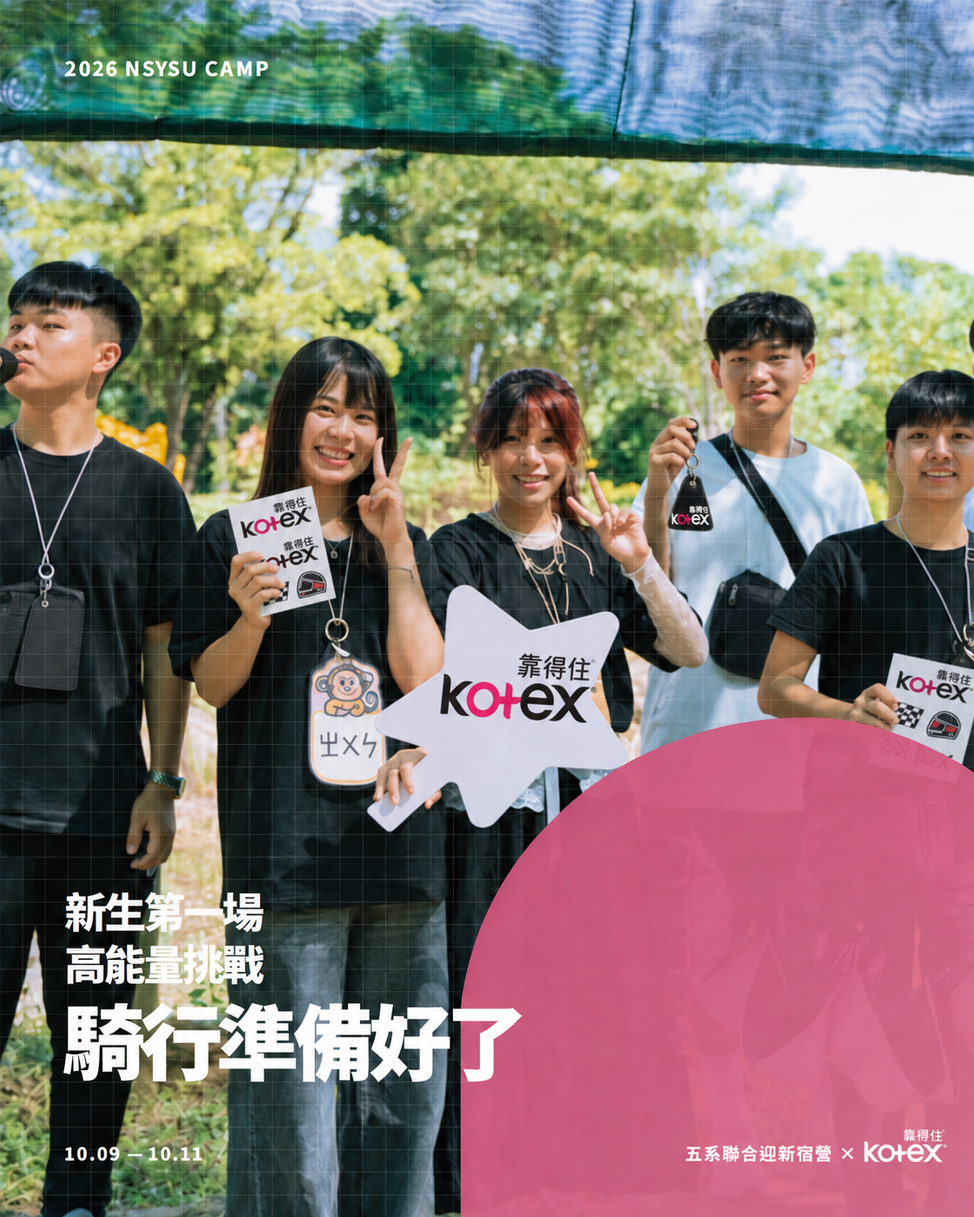
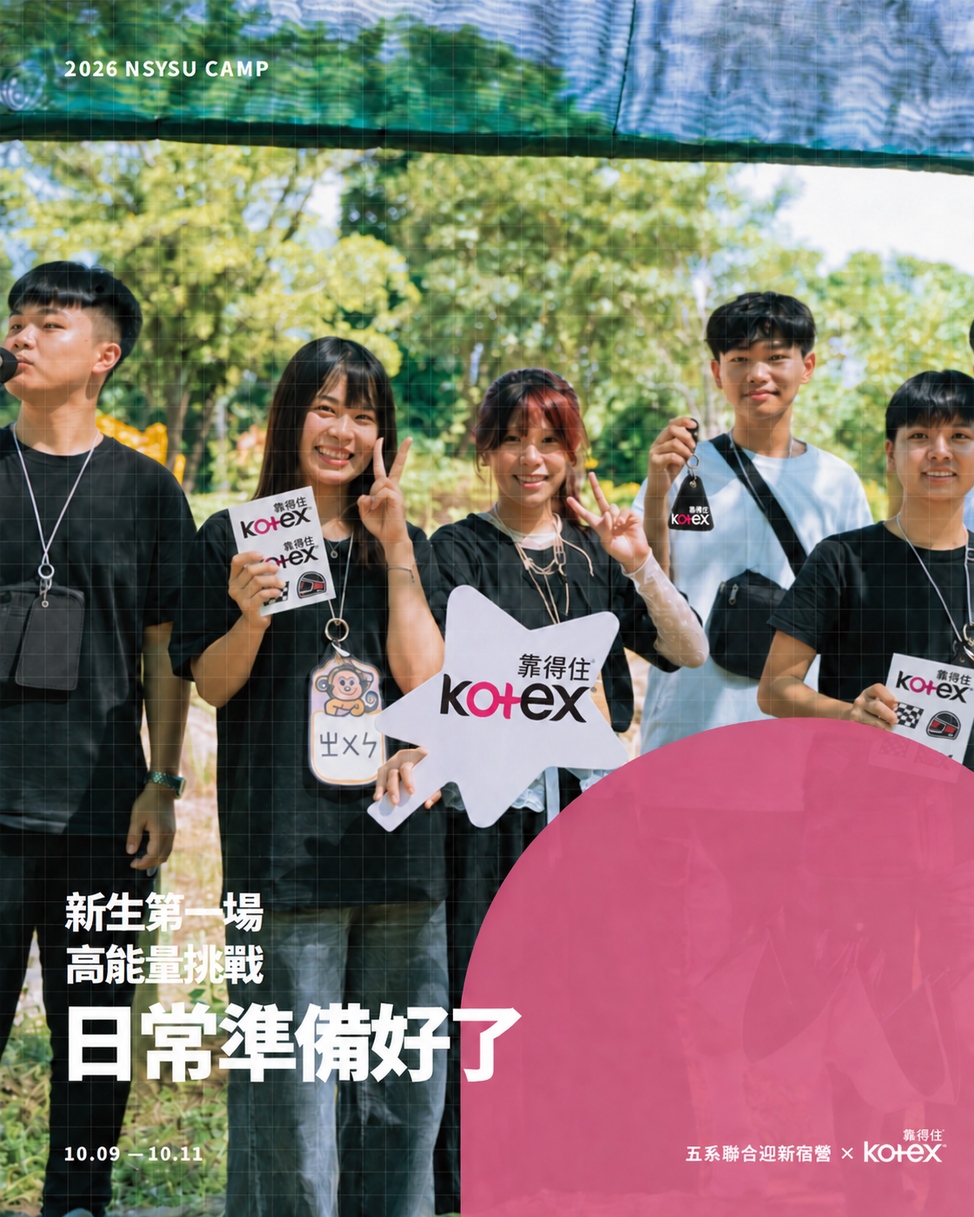
fix: refine Kotex and Whisper proposal content

diff --git a/whisper/index.html b/whisper/index.html
@@ -4,7 +4,7 @@
     <meta charset="UTF-8" />
     <meta name="viewport" content="width=device-width, initial-scale=1.0" />
     <title>好自在 合作提案｜2026 中山五系迎新宿營</title>
-    <meta name="description" content="2026 中山五系聯合迎新宿營提供給好自在 Whisper 的日常照護合作提案，以經典款液體衛生棉作為迎新福袋物資評估基礎。" />
+    <meta name="description" content="2026 中山五系聯合迎新宿營提供給好自在 Whisper 的日常照護合作提案，以經典款液體衛生棉作為直接發放物資評估基礎。" />
     <link rel="preconnect" href="https://fonts.googleapis.com" />
     <link rel="preconnect" href="https://fonts.gstatic.com" crossorigin />
     <link href="https://fonts.googleapis.com/css2?family=Noto+Sans+TC:wght@400;500;700;900&display=swap" rel="stylesheet" />
@@ -15,10 +15,10 @@
     <a class="skip-link" href="#overview">跳到提案內容</a>
     <header class="proposal-header"><nav class="proposal-nav shell" aria-label="提案頁面導覽"><a class="proposal-brand" href="#overview"><img src="../assets/images/logo-avatar.jpg" alt="五系聯合宿營標誌" /><span><b>好自在 合作提案</b><small>2026 中山五系聯合迎新宿營</small></span></a><button class="nav-toggle" type="button" aria-expanded="false" aria-controls="proposal-menu">頁面選擇</button><div class="proposal-links" id="proposal-menu"><a class="active" href="#overview">活動資訊</a><a href="#collaboration">合作邀請</a><a href="#proposal">合作方案</a><a href="#execution">行程安全</a></div></nav></header>
     <main>
-      <section class="proposal-page overview is-active" id="overview" aria-labelledby="overview-title" tabindex="-1"><div class="shell overview-grid"><div class="overview-copy"><p class="eyebrow">PRIVATE PROPOSAL</p><p class="camp-line">國立中山大學・五系聯合迎新宿營</p><h1 id="overview-title"><span>把自在防護</span><em>放進新生的旅程</em></h1><p class="opening">邀請好自在 Whisper 以經典款液體衛生棉支持女同學的迎新福袋，讓新生在跑跳闖關與日常行程中維持自在節奏</p><dl class="event-facts"><div><dt>時間</dt><dd>2026.10.09 — 10.11</dd></div><div><dt>地點</dt><dd>中山大學・走馬瀨・安平</dd></div><div><dt>規模</dt><dd>150 人</dd></div></dl><a class="next-link" href="#collaboration">看見合作方式 <span aria-hidden="true">↓</span></a></div><figure class="overview-photo"><img src="../assets/images/sponsor-hero.webp" alt="五系聯合宿營學員戶外合照" /><figcaption>活動情境示意｜合作素材與品牌露出將於執行前送交確認</figcaption></figure></div><div class="shell proof-strip"><div><strong>五系編制</strong><span>外文、醫科、光電、機電、生科</span></div><div><strong>三天兩夜</strong><span>破冰、戶外闖關、水大地、晚會與安平探索</span></div><div><strong>完整活動計畫</strong><span>隊輔陪伴、點名、安全說明與緊急應變</span></div></div></section>
-      <section class="proposal-page collaboration" id="collaboration" aria-labelledby="collaboration-title" tabindex="-1"><div class="shell hydration-grid"><figure class="hydration-photo"><img src="../assets/images/sponsor-work-together.webp" alt="宿營學員團隊合照" /><figcaption>合作情境示意｜贊助品與宣傳素材將依 好自在 Whisper 核可內容執行</figcaption></figure><div class="hydration-copy"><p class="eyebrow blue">WHY 好自在 Whisper</p><h2 id="collaboration-title"><span>讓自在防護成為</span><span>新生投入活動的準備</span></h2><p>營隊包含大量跑跳與戶外闖關；我們希望將好自在經典款液體衛生棉放入女同學迎新福袋，讓參與者能依自身需求準備個人用品。實際商品規格、提供方式與品牌素材均以好自在最終確認為準。</p><a class="source-link" href="https://www.livingartist.com.tw/" target="_blank" rel="noopener noreferrer">前往好自在官方網站 ↗</a><article class="ask-card"><div class="ask-card-title"><span>核心合作邀請</span><strong>經典款液體衛生棉</strong><span class="ask-product-detail">24cm 或 27cm｜30 盒迎新福袋物資</span></div><p>希望邀請好自在 Whisper 提供 <b>經典款液體衛生棉 24cm 或 27cm 30 盒</b>，作為女同學迎新福袋物資的評估基礎。實際包裝規格、提供方式與發放對象，皆以品牌最終確認為準。</p><div class="blank-product"><span>合作安排</span><b>以迎新福袋直接發放給女同學，讓每位領取者皆可體驗</b></div><p>若好自在 Whisper 提供官方 logo、商品說明或包裝素材，我們可依核可內容安排福袋、網站與社群露出；所有呈現方式皆會在執行前送交確認。</p><small>產品規格、適用性、提供方式、品牌素材與露出範圍，均以 好自在 Whisper 最終確認為準。</small></article><a class="next-link" href="#proposal">看合作方案 <span aria-hidden="true">↓</span></a></div></div></section>
-      <section class="proposal-page partnership" id="proposal" aria-labelledby="proposal-title" tabindex="-1"><div class="shell partnership-heading"><p class="eyebrow">PARTNERSHIP PROPOSAL</p><h2 id="proposal-title">讓好自在的日常防護陪新生自在參與</h2></div><div class="shell decision-layout"><article class="primary-request"><p>優先合作方案</p><div class="request-number"><strong>經典款液體衛生棉<br /><span>30 盒</span></strong></div><ul><li>以迎新福袋直接發放給女同學</li><li>適用規格由品牌最終確認</li><li>實際提供方式與商品規格依品牌確認</li><li>活動網站與 Instagram 內容皆於上線前送交核可</li></ul></article></div><div class="shell deliverable-table-wrap"><table class="deliverable-table"><caption>合作內容</caption><thead><tr><th scope="col">合作項目</th><th scope="col">主辦方交付</th><th scope="col">可共同討論</th><th scope="col">回報憑據</th></tr></thead><tbody><tr><th scope="row">迎新福袋發放</th><td>以經典款液體衛生棉 24cm 或 27cm 30 盒作為女同學迎新福袋物資的提案基礎；實際包裝與發放方式於執行前確認。</td><td>產品提供方式、適用性與場地規範。</td><td>執行紀錄與現場照片。</td></tr><tr><th scope="row">品牌識別素材</th><td>若品牌提供貼紙、鑰匙圈或其他宣傳素材，可規劃為互動贈品或核可後的宣傳內容。</td><td>是否提供、素材種類、數量與使用規範。</td><td>現場與素材使用紀錄。</td></tr><tr><th scope="row"><a href="activity-mockup.html" target="_blank" rel="noopener noreferrer">活動官網 ↗</a></th><td>合作頁放置 好自在 Whisper Logo、官方連結與核可後的簡短介紹。</td><td>Logo 檔、連結與上線前審核。</td><td>線上截圖。</td></tr><tr><th scope="row">Instagram 合作內容</th><td>活動前、現場、活動後各 1 則內容；文案與視覺均先送 好自在 Whisper 確認。</td><td>素材、標記帳號與文案規範。</td><td>貼文連結與限時動態截圖。</td></tr><tr><th scope="row">成果結案</th><td>活動後 14 日內整理合作執行摘要與公開紀錄。</td><td>指定收件窗口與成果欄位。</td><td>結案 PDF、照片與公開連結。</td></tr></tbody></table></div><div class="shell content-preview" aria-labelledby="content-preview-title"><div class="content-preview-copy"><p class="eyebrow">CONTENT EXAMPLE</p><h3 id="content-preview-title"><span>Instagram</span><span>貼文模擬</span></h3><p>以下以三則貼文呈現迎新福袋準備、活動中照護提醒與活動後回顧。視覺、文案與發布時程皆會於上線前送交 好自在 Whisper 確認。</p><div class="resource-links"><a class="resource-link" href="activity-mockup.html" target="_blank" rel="noopener noreferrer">前往活動官網 ↗</a><a class="resource-link" href="https://www.instagram.com/2026_nsysu_camp/" target="_blank" rel="noopener noreferrer">前往 Instagram ↗</a></div></div><article class="instagram-mockup" aria-label="好自在 Whisper Instagram 貼文模擬器"><header><img src="../assets/images/logo-avatar.jpg" alt="" /><div><b>2026_nsysu_camp</b><small>中山五系聯合迎新宿營</small></div><button type="button" aria-label="更多選項">•••</button></header><div class="instagram-media"><img id="instagram-image" src="assets/instagram/01-before-whisper.png" alt="好自在 Whisper 合作貼文範例一" /><button class="ig-arrow previous" type="button" aria-label="上一張貼文" onclick="window.whisperShowPost?.(-1); return false;">‹</button><button class="ig-arrow next" type="button" aria-label="下一張貼文" onclick="window.whisperShowPost?.(1); return false;">›</button></div><div class="instagram-actions"><span aria-hidden="true">♡　◯　➤</span><div class="ig-dots" aria-label="貼文頁數"><button class="is-current" type="button" aria-label="顯示第 1 張範例" onclick="window.whisperShowPost?.(0, true); return false;"></button><button type="button" aria-label="顯示第 2 張範例" onclick="window.whisperShowPost?.(1, true); return false;"></button><button type="button" aria-label="顯示第 3 張範例" onclick="window.whisperShowPost?.(2, true); return false;"></button></div><span aria-hidden="true">⌑</span></div><div class="instagram-caption"><b>2026_nsysu_camp</b><p id="instagram-caption">集合前，我們先把迎新福袋與日常照護用品準備好。所有合作素材均於上線前送好自在確認。</p><small id="instagram-date">貼文方向一｜活動前</small></div></article></div><div class="shell page-next"><a class="next-link" href="#execution">看活動執行與安全規劃 <span aria-hidden="true">↓</span></a></div></section>
-      <section class="proposal-page execution" id="execution" aria-labelledby="execution-title" tabindex="-1"><div class="shell execution-heading"><p class="eyebrow">EXECUTION &amp; SAFETY</p><h2 id="execution-title">把合作融入活動也守住安全</h2></div><div class="shell schedule-grid"><article><span>DAY 1 / 10.09</span><h3>先認識彼此</h3><p>破冰、夜教、宵夜</p><small>校園內集合與活動，隊輔帶領、點名與安全說明。</small></article><article><span>DAY 2 / 10.10</span><h3>高活動量的一天</h3><p>走馬瀨大地遊戲、水大地、晚會</p><small>抽獎與合作夥伴致謝可安排於晚會等合適環節。</small></article><article><span>DAY 3 / 10.11</span><h3>完成共同旅程</h3><p>結業、團隊活動、安平探索</p><small>戶外活動與移動前皆完成安全說明，結束後返抵中山大學。</small></article></div><div class="shell safety-grid"><article><h3>現場安全</h3><p>飲用水、急救箱、點名與醫療聯絡表全程配置。各活動前完成安全說明與器材檢查。</p></article><article><h3>天候與應變</h3><p>雨勢、高溫或重大事件依校方、場地方與政府指示調整。</p></article><article><h3>合作執行原則</h3><p>抽獎與宣傳不影響活動安全與參與者隱私。所有對外品牌文字皆經確認後發布。</p></article></div><div class="shell closing-card"><div><p class="eyebrow">NEXT STEP</p><h2><span>期待與 好自在 Whisper 一起</span><span>讓相遇留下好的記憶</span></h2></div><p>若 好自在 Whisper 願意評估本案，我們將依品牌回覆確認贊助商品、素材與交付項目，並提供最終執行版本。</p></div></section>
+      <section class="proposal-page overview is-active" id="overview" aria-labelledby="overview-title" tabindex="-1"><div class="shell overview-grid"><div class="overview-copy"><p class="eyebrow">PRIVATE PROPOSAL</p><p class="camp-line">國立中山大學・五系聯合迎新宿營</p><h1 id="overview-title"><span>把自在防護</span><em>放進新生的旅程</em></h1><p class="opening">邀請好自在 Whisper 以經典款液體衛生棉供女同學直接使用，讓新生在跑跳闖關與日常行程中維持自在節奏</p><dl class="event-facts"><div><dt>時間</dt><dd>2026.10.09 — 10.11</dd></div><div><dt>地點</dt><dd>中山大學・走馬瀨・安平</dd></div><div><dt>規模</dt><dd>150 人</dd></div></dl><a class="next-link" href="#collaboration">看見合作方式 <span aria-hidden="true">↓</span></a></div><figure class="overview-photo"><img src="../assets/images/sponsor-hero.webp" alt="五系聯合宿營學員戶外合照" /><figcaption>活動情境示意｜合作素材與品牌露出將於執行前送交確認</figcaption></figure></div><div class="shell proof-strip"><div><strong>五系編制</strong><span>外文、醫科、光電、機電、生科</span></div><div><strong>三天兩夜</strong><span>破冰、戶外闖關、水大地、晚會與安平探索</span></div><div><strong>完整活動計畫</strong><span>隊輔陪伴、點名、安全說明與緊急應變</span></div></div></section>
+      <section class="proposal-page collaboration" id="collaboration" aria-labelledby="collaboration-title" tabindex="-1"><div class="shell hydration-grid"><figure class="hydration-photo"><img src="../assets/images/sponsor-work-together.webp" alt="宿營學員團隊合照" /><figcaption>合作情境示意｜贊助品與宣傳素材將依 好自在 Whisper 核可內容執行</figcaption></figure><div class="hydration-copy"><p class="eyebrow blue">WHY 好自在 Whisper</p><h2 id="collaboration-title"><span>讓自在防護成為</span><span>新生投入活動</span></h2><p>營隊包含大量跑跳與戶外闖關；我們希望將好自在經典款液體衛生棉直接發放給女同學，讓參與者能依自身需求準備個人用品。實際商品規格、提供方式與品牌素材均以好自在最終確認為準。</p><a class="source-link" href="https://www.livingartist.com.tw/" target="_blank" rel="noopener noreferrer">前往好自在官方網站 ↗</a><article class="ask-card"><div class="ask-card-title"><span>核心合作邀請</span><strong>經典款液體衛生棉</strong><span class="ask-product-detail">24cm 或 27cm｜30 盒直接發放物資</span></div><p>希望邀請好自在 Whisper 提供 <b>經典款液體衛生棉 24cm 或 27cm 30 盒</b>，作為女同學直接發放物資的評估基礎。實際包裝規格、提供方式與發放對象，皆以品牌最終確認為準。</p><div class="blank-product"><span>合作安排</span><b>直接發放給女同學，讓每位領取者皆可體驗</b></div><p>若好自在 Whisper 提供官方 logo、商品說明或包裝素材，我們可依核可內容安排直接發放說明、網站與社群露出；所有呈現方式皆會在執行前送交確認。</p><small>產品規格、適用性、提供方式、品牌素材與露出範圍，均以 好自在 Whisper 最終確認為準。</small></article><a class="next-link" href="#proposal">看合作方案 <span aria-hidden="true">↓</span></a></div></div></section>
+      <section class="proposal-page partnership" id="proposal" aria-labelledby="proposal-title" tabindex="-1"><div class="shell partnership-heading"><p class="eyebrow">PARTNERSHIP PROPOSAL</p><h2 id="proposal-title">讓好自在的日常防護陪新生自在參與</h2></div><div class="shell decision-layout"><article class="primary-request"><p>優先合作方案</p><div class="request-number"><strong>經典款液體衛生棉<br /><span>30 盒</span></strong></div><ul><li>直接發放給女同學</li><li>適用規格由品牌最終確認</li><li>實際提供方式與商品規格依品牌確認</li><li>活動網站與 Instagram 內容皆於上線前送交核可</li></ul></article></div><div class="shell deliverable-table-wrap"><table class="deliverable-table"><caption>合作內容</caption><thead><tr><th scope="col">合作項目</th><th scope="col">主辦方交付</th><th scope="col">可共同討論</th><th scope="col">回報憑據</th></tr></thead><tbody><tr><th scope="row">直接發放</th><td>以經典款液體衛生棉 24cm 或 27cm 30 盒作為女同學直接發放物資的提案基礎；實際包裝與發放方式於執行前確認。</td><td>產品提供方式、適用性與場地規範。</td><td>執行紀錄與現場照片。</td></tr><tr><th scope="row">品牌識別素材</th><td>若品牌提供貼紙、鑰匙圈或其他宣傳素材，可規劃為互動贈品或核可後的宣傳內容。</td><td>是否提供、素材種類、數量與使用規範。</td><td>現場與素材使用紀錄。</td></tr><tr><th scope="row"><a href="activity-mockup.html" target="_blank" rel="noopener noreferrer">活動官網 ↗</a></th><td>合作頁放置 好自在 Whisper Logo、官方連結與核可後的簡短介紹。</td><td>Logo 檔、連結與上線前審核。</td><td>線上截圖。</td></tr><tr><th scope="row">Instagram 合作內容</th><td>活動前、現場、活動後各 1 則內容；文案與視覺均先送 好自在 Whisper 確認。</td><td>素材、標記帳號與文案規範。</td><td>貼文連結與限時動態截圖。</td></tr><tr><th scope="row">成果結案</th><td>活動後 14 日內整理合作執行摘要與公開紀錄。</td><td>指定收件窗口與成果欄位。</td><td>結案 PDF、照片與公開連結。</td></tr></tbody></table></div><div class="shell content-preview" aria-labelledby="content-preview-title"><div class="content-preview-copy"><p class="eyebrow">CONTENT EXAMPLE</p><h3 id="content-preview-title"><span>Instagram</span><span>貼文模擬</span></h3><p>以下以三則貼文呈現直接發放準備、活動中照護提醒與活動後回顧。視覺、文案與發布時程皆會於上線前送交 好自在 Whisper 確認。</p><div class="resource-links"><a class="resource-link" href="activity-mockup.html" target="_blank" rel="noopener noreferrer">前往活動官網 ↗</a><a class="resource-link" href="https://www.instagram.com/2026_nsysu_camp/" target="_blank" rel="noopener noreferrer">前往 Instagram ↗</a></div></div><article class="instagram-mockup" aria-label="好自在 Whisper Instagram 貼文模擬器"><header><img src="../assets/images/logo-avatar.jpg" alt="" /><div><b>2026_nsysu_camp</b><small>中山五系聯合迎新宿營</small></div><button type="button" aria-label="更多選項">•••</button></header><div class="instagram-media"><img id="instagram-image" src="assets/instagram/01-before-whisper.png" alt="好自在 Whisper 合作貼文範例一" /><button class="ig-arrow previous" type="button" aria-label="上一張貼文" onclick="window.whisperShowPost?.(-1); return false;">‹</button><button class="ig-arrow next" type="button" aria-label="下一張貼文" onclick="window.whisperShowPost?.(1); return false;">›</button></div><div class="instagram-actions"><span aria-hidden="true">♡　◯　➤</span><div class="ig-dots" aria-label="貼文頁數"><button class="is-current" type="button" aria-label="顯示第 1 張範例" onclick="window.whisperShowPost?.(0, true); return false;"></button><button type="button" aria-label="顯示第 2 張範例" onclick="window.whisperShowPost?.(1, true); return false;"></button><button type="button" aria-label="顯示第 3 張範例" onclick="window.whisperShowPost?.(2, true); return false;"></button></div><span aria-hidden="true">⌑</span></div><div class="instagram-caption"><b>2026_nsysu_camp</b><p id="instagram-caption">集合前，我們先把日常照護用品準備好。所有合作素材均於上線前送好自在確認。</p><small id="instagram-date">貼文方向一｜活動前</small></div></article></div><div class="shell page-next"><a class="next-link" href="#execution">看活動執行與安全規劃 <span aria-hidden="true">↓</span></a></div></section>
+      <section class="proposal-page execution" id="execution" aria-labelledby="execution-title" tabindex="-1"><div class="shell execution-heading"><p class="eyebrow">EXECUTION &amp; SAFETY</p><h2 id="execution-title">把合作融入活動也守住安全</h2></div><div class="shell schedule-grid"><article><span>DAY 1 / 10.09</span><h3>先認識彼此</h3><p>破冰、夜教、宵夜</p><small>校園內集合與活動，隊輔帶領、點名與安全說明。</small></article><article><span>DAY 2 / 10.10</span><h3>高活動量的一天</h3><p>走馬瀨大地遊戲、水大地、晚會</p><small>抽獎與合作夥伴致謝可安排於晚會等合適環節。</small></article><article><span>DAY 3 / 10.11</span><h3>完成共同旅程</h3><p>結業、團隊活動、安平探索</p><small>戶外活動與移動前皆完成安全說明，結束後返抵中山大學。</small></article></div><div class="shell safety-grid"><article><h3>現場安全</h3><p>飲用水、急救箱、點名與醫療聯絡表全程配置。各活動前完成安全說明與器材檢查。</p></article><article><h3>天候與應變</h3><p>雨勢、高溫或重大事件依校方、場地方與政府指示調整。</p></article><article><h3>合作執行原則</h3><p>抽獎與宣傳不影響活動安全與參與者隱私。所有對外品牌文字皆經確認後發布。</p></article></div><div class="shell closing-card"><div><p class="eyebrow">NEXT STEP</p><h2><span>期待與好自在</span><span>一起讓相遇留下好記憶</span></h2></div><p>若 好自在 Whisper 願意評估本案，我們將依品牌回覆確認贊助商品、素材與交付項目，並提供最終執行版本。</p></div></section>
     </main><footer class="proposal-footer"><div class="shell"><span>2026 中山五系聯合迎新宿營</span><span>好自在 合作提案｜合作內容依雙方最終確認為準</span></div></footer><script src="script.js?v=20260909-1"></script>
   </body>
 </html>

diff --git a/kotex/index.html b/kotex/index.html
@@ -4,7 +4,7 @@
     <meta charset="UTF-8" />
     <meta name="viewport" content="width=device-width, initial-scale=1.0" />
     <title>靠得住 合作提案｜2026 中山五系迎新宿營</title>
-    <meta name="description" content="2026 中山五系聯合迎新宿營提供給靠得住 Kotex 的日常照護合作提案，以草本抑菌衛生棉作為迎新福袋物資評估基礎。" />
+    <meta name="description" content="2026 中山五系聯合迎新宿營提供給靠得住 Kotex 的日常照護合作提案，以草本抑菌衛生棉作為直接發放物資評估基礎。" />
     <link rel="preconnect" href="https://fonts.googleapis.com" />
     <link rel="preconnect" href="https://fonts.gstatic.com" crossorigin />
     <link href="https://fonts.googleapis.com/css2?family=Noto+Sans+TC:wght@400;500;700;900&display=swap" rel="stylesheet" />
@@ -15,10 +15,10 @@
     <a class="skip-link" href="#overview">跳到提案內容</a>
     <header class="proposal-header"><nav class="proposal-nav shell" aria-label="提案頁面導覽"><a class="proposal-brand" href="#overview"><img src="../assets/images/logo-avatar.jpg" alt="五系聯合宿營標誌" /><span><b>靠得住 合作提案</b><small>2026 中山五系聯合迎新宿營</small></span></a><button class="nav-toggle" type="button" aria-expanded="false" aria-controls="proposal-menu">頁面選擇</button><div class="proposal-links" id="proposal-menu"><a class="active" href="#overview">活動資訊</a><a href="#collaboration">合作邀請</a><a href="#proposal">合作方案</a><a href="#execution">行程安全</a></div></nav></header>
     <main>
-      <section class="proposal-page overview is-active" id="overview" aria-labelledby="overview-title" tabindex="-1"><div class="shell overview-grid"><div class="overview-copy"><p class="eyebrow">PRIVATE PROPOSAL</p><p class="camp-line">國立中山大學・五系聯合迎新宿營</p><h1 id="overview-title"><span>把日常照顧</span><em>放進新生的行囊</em></h1><p class="opening">邀請靠得住 Kotex 以草本抑菌衛生棉 26cm 支持女同學的迎新福袋，讓新生在三天兩夜活動中也能把日常照護準備好</p><dl class="event-facts"><div><dt>時間</dt><dd>2026.10.09 — 10.11</dd></div><div><dt>地點</dt><dd>中山大學・走馬瀨・安平</dd></div><div><dt>規模</dt><dd>150 人</dd></div></dl><a class="next-link" href="#collaboration">看見合作方式 <span aria-hidden="true">↓</span></a></div><figure class="overview-photo"><img src="../assets/images/sponsor-hero.webp" alt="五系聯合宿營學員戶外合照" /><figcaption>活動情境示意｜合作素材與品牌露出將於執行前送交確認</figcaption></figure></div><div class="shell proof-strip"><div><strong>五系編制</strong><span>外文、醫科、光電、機電、生科</span></div><div><strong>三天兩夜</strong><span>破冰、戶外闖關、水大地、晚會與安平探索</span></div><div><strong>完整活動計畫</strong><span>隊輔陪伴、點名、安全說明與緊急應變</span></div></div></section>
-      <section class="proposal-page collaboration" id="collaboration" aria-labelledby="collaboration-title" tabindex="-1"><div class="shell hydration-grid"><figure class="hydration-photo"><img src="../assets/images/sponsor-work-together.webp" alt="宿營學員團隊合照" /><figcaption>合作情境示意｜贊助品與宣傳素材將依 靠得住 Kotex 核可內容執行</figcaption></figure><div class="hydration-copy"><p class="eyebrow blue">WHY 靠得住 Kotex</p><h2 id="collaboration-title"><span>讓日常照護成為</span><span>新生安心出發的準備</span></h2><p>高雄十月仍有炎熱天候與大量戶外活動。我們希望將靠得住草本抑菌衛生棉放入女同學迎新福袋，讓個人用品能在出發前就準備妥當；實際商品、發放方式與品牌素材均以靠得住最終確認為準。</p><a class="source-link" href="https://www.kotex.com.tw/" target="_blank" rel="noopener noreferrer">前往靠得住官方網站 ↗</a><article class="ask-card"><div class="ask-card-title"><span>核心合作邀請</span><strong>草本抑菌衛生棉</strong><span class="ask-product-detail">26cm｜40 包迎新福袋物資</span></div><p>希望邀請靠得住 Kotex 提供 <b>草本抑菌衛生棉 26cm 40 包</b>，作為女同學迎新福袋物資的評估基礎。實際包裝規格、提供方式與發放對象，皆以品牌最終確認為準。</p><div class="blank-product"><span>合作安排</span><b>以迎新福袋直接發放給女同學，讓每位領取者皆可體驗</b></div><p>若靠得住 Kotex 提供官方 logo、商品說明或包裝素材，我們可依核可內容安排福袋、網站與社群露出；所有呈現方式皆會在執行前送交確認。</p><small>產品規格、適用性、提供方式、品牌素材與露出範圍，均以 靠得住 Kotex 最終確認為準。</small></article><a class="next-link" href="#proposal">看合作方案 <span aria-hidden="true">↓</span></a></div></div></section>
-      <section class="proposal-page partnership" id="proposal" aria-labelledby="proposal-title" tabindex="-1"><div class="shell partnership-heading"><p class="eyebrow">PARTNERSHIP PROPOSAL</p><h2 id="proposal-title">讓靠得住的日常照護陪新生安心出發</h2></div><div class="shell decision-layout"><article class="primary-request"><p>優先合作方案</p><div class="request-number"><strong>草本抑菌衛生棉<br /><span>26cm 40 包</span></strong></div><ul><li>以迎新福袋直接發放給女同學</li><li>不以競賽或抽獎方式安排</li><li>實際提供方式與商品規格依品牌確認</li><li>活動網站與 Instagram 內容皆於上線前送交核可</li></ul></article></div><div class="shell deliverable-table-wrap"><table class="deliverable-table"><caption>合作內容</caption><thead><tr><th scope="col">合作項目</th><th scope="col">主辦方交付</th><th scope="col">可共同討論</th><th scope="col">回報憑據</th></tr></thead><tbody><tr><th scope="row">迎新福袋發放</th><td>以草本抑菌衛生棉 26cm 40 包作為女同學迎新福袋物資的提案基礎；實際包裝與發放方式於執行前確認。</td><td>產品提供方式、適用性與場地規範。</td><td>執行紀錄與現場照片。</td></tr><tr><th scope="row">品牌識別素材</th><td>若品牌提供貼紙、鑰匙圈或其他宣傳素材，可規劃為互動贈品或核可後的宣傳內容。</td><td>是否提供、素材種類、數量與使用規範。</td><td>現場與素材使用紀錄。</td></tr><tr><th scope="row"><a href="activity-mockup.html" target="_blank" rel="noopener noreferrer">活動官網 ↗</a></th><td>合作頁放置 靠得住 Kotex Logo、官方連結與核可後的簡短介紹。</td><td>Logo 檔、連結與上線前審核。</td><td>線上截圖。</td></tr><tr><th scope="row">Instagram 合作內容</th><td>活動前、現場、活動後各 1 則內容；文案與視覺均先送 靠得住 Kotex 確認。</td><td>素材、標記帳號與文案規範。</td><td>貼文連結與限時動態截圖。</td></tr><tr><th scope="row">成果結案</th><td>活動後 14 日內整理合作執行摘要與公開紀錄。</td><td>指定收件窗口與成果欄位。</td><td>結案 PDF、照片與公開連結。</td></tr></tbody></table></div><div class="shell content-preview" aria-labelledby="content-preview-title"><div class="content-preview-copy"><p class="eyebrow">CONTENT EXAMPLE</p><h3 id="content-preview-title"><span>Instagram</span><span>貼文模擬</span></h3><p>以下以三則貼文呈現迎新福袋準備、活動中照護提醒與活動後回顧。視覺、文案與發布時程皆會於上線前送交 靠得住 Kotex 確認。</p><div class="resource-links"><a class="resource-link" href="activity-mockup.html" target="_blank" rel="noopener noreferrer">前往活動官網 ↗</a><a class="resource-link" href="https://www.instagram.com/2026_nsysu_camp/" target="_blank" rel="noopener noreferrer">前往 Instagram ↗</a></div></div><article class="instagram-mockup" aria-label="靠得住 Kotex Instagram 貼文模擬器"><header><img src="../assets/images/logo-avatar.jpg" alt="" /><div><b>2026_nsysu_camp</b><small>中山五系聯合迎新宿營</small></div><button type="button" aria-label="更多選項">•••</button></header><div class="instagram-media"><img id="instagram-image" src="assets/instagram/01-before-kotex.png" alt="靠得住 Kotex 合作貼文範例一" /><button class="ig-arrow previous" type="button" aria-label="上一張貼文" onclick="window.kotexShowPost?.(-1); return false;">‹</button><button class="ig-arrow next" type="button" aria-label="下一張貼文" onclick="window.kotexShowPost?.(1); return false;">›</button></div><div class="instagram-actions"><span aria-hidden="true">♡　◯　➤</span><div class="ig-dots" aria-label="貼文頁數"><button class="is-current" type="button" aria-label="顯示第 1 張範例" onclick="window.kotexShowPost?.(0, true); return false;"></button><button type="button" aria-label="顯示第 2 張範例" onclick="window.kotexShowPost?.(1, true); return false;"></button><button type="button" aria-label="顯示第 3 張範例" onclick="window.kotexShowPost?.(2, true); return false;"></button></div><span aria-hidden="true">⌑</span></div><div class="instagram-caption"><b>2026_nsysu_camp</b><p id="instagram-caption">出發前，我們先把迎新福袋與日常照護用品準備好。所有合作素材均於上線前送靠得住確認。</p><small id="instagram-date">貼文方向一｜活動前</small></div></article></div><div class="shell page-next"><a class="next-link" href="#execution">看活動執行與安全規劃 <span aria-hidden="true">↓</span></a></div></section>
-      <section class="proposal-page execution" id="execution" aria-labelledby="execution-title" tabindex="-1"><div class="shell execution-heading"><p class="eyebrow">EXECUTION &amp; SAFETY</p><h2 id="execution-title">把合作融入活動也守住安全</h2></div><div class="shell schedule-grid"><article><span>DAY 1 / 10.09</span><h3>先認識彼此</h3><p>破冰、夜教、宵夜</p><small>校園內集合與活動，隊輔帶領、點名與安全說明。</small></article><article><span>DAY 2 / 10.10</span><h3>高活動量的一天</h3><p>走馬瀨大地遊戲、水大地、晚會</p><small>抽獎與合作夥伴致謝可安排於晚會等合適環節。</small></article><article><span>DAY 3 / 10.11</span><h3>完成共同旅程</h3><p>結業、團隊活動、安平探索</p><small>戶外活動與移動前皆完成安全說明，結束後返抵中山大學。</small></article></div><div class="shell safety-grid"><article><h3>現場安全</h3><p>飲用水、急救箱、點名與醫療聯絡表全程配置。各活動前完成安全說明與器材檢查。</p></article><article><h3>天候與應變</h3><p>雨勢、高溫或重大事件依校方、場地方與政府指示調整。</p></article><article><h3>合作執行原則</h3><p>抽獎與宣傳不影響活動安全與參與者隱私。所有對外品牌文字皆經確認後發布。</p></article></div><div class="shell closing-card"><div><p class="eyebrow">NEXT STEP</p><h2><span>期待與 靠得住 Kotex 一起</span><span>讓相遇留下好的記憶</span></h2></div><p>若 靠得住 Kotex 願意評估本案，我們將依品牌回覆確認贊助商品、素材與交付項目，並提供最終執行版本。</p></div></section>
+      <section class="proposal-page overview is-active" id="overview" aria-labelledby="overview-title" tabindex="-1"><div class="shell overview-grid"><div class="overview-copy"><p class="eyebrow">PRIVATE PROPOSAL</p><p class="camp-line">國立中山大學・五系聯合迎新宿營</p><h1 id="overview-title"><span>把日常照顧</span><em>放進新生的行囊</em></h1><p class="opening">邀請靠得住 Kotex 以草本抑菌衛生棉 26cm 供女同學直接使用，讓新生在三天兩夜活動中也能把日常照護準備好</p><dl class="event-facts"><div><dt>時間</dt><dd>2026.10.09 — 10.11</dd></div><div><dt>地點</dt><dd>中山大學・走馬瀨・安平</dd></div><div><dt>規模</dt><dd>150 人</dd></div></dl><a class="next-link" href="#collaboration">看見合作方式 <span aria-hidden="true">↓</span></a></div><figure class="overview-photo"><img src="../assets/images/sponsor-hero.webp" alt="五系聯合宿營學員戶外合照" /><figcaption>活動情境示意｜合作素材與品牌露出將於執行前送交確認</figcaption></figure></div><div class="shell proof-strip"><div><strong>五系編制</strong><span>外文、醫科、光電、機電、生科</span></div><div><strong>三天兩夜</strong><span>破冰、戶外闖關、水大地、晚會與安平探索</span></div><div><strong>完整活動計畫</strong><span>隊輔陪伴、點名、安全說明與緊急應變</span></div></div></section>
+      <section class="proposal-page collaboration" id="collaboration" aria-labelledby="collaboration-title" tabindex="-1"><div class="shell hydration-grid"><figure class="hydration-photo"><img src="../assets/images/sponsor-work-together.webp" alt="宿營學員團隊合照" /><figcaption>合作情境示意｜贊助品與宣傳素材將依 靠得住 Kotex 核可內容執行</figcaption></figure><div class="hydration-copy"><p class="eyebrow blue">WHY 靠得住 Kotex</p><h2 id="collaboration-title"><span>讓日常照護成為</span><span>新生安心出發</span></h2><p>高雄十月仍有炎熱天候與大量戶外活動。我們希望將靠得住草本抑菌衛生棉直接發放給女同學，讓個人用品能在出發前就準備妥當；實際商品、發放方式與品牌素材均以靠得住最終確認為準。</p><a class="source-link" href="https://www.kotex.com.tw/" target="_blank" rel="noopener noreferrer">前往靠得住官方網站 ↗</a><article class="ask-card"><div class="ask-card-title"><span>核心合作邀請</span><strong>草本抑菌衛生棉</strong><span class="ask-product-detail">26cm｜40 包直接發放物資</span></div><p>希望邀請靠得住 Kotex 提供 <b>草本抑菌衛生棉 26cm 40 包</b>，作為女同學直接發放物資的評估基礎。實際包裝規格、提供方式與發放對象，皆以品牌最終確認為準。</p><div class="blank-product"><span>合作安排</span><b>直接發放給女同學，讓每位領取者皆可體驗</b></div><p>若靠得住 Kotex 提供官方 logo、商品說明或包裝素材，我們可依核可內容安排直接發放說明、網站與社群露出；所有呈現方式皆會在執行前送交確認。</p><small>產品規格、適用性、提供方式、品牌素材與露出範圍，均以 靠得住 Kotex 最終確認為準。</small></article><a class="next-link" href="#proposal">看合作方案 <span aria-hidden="true">↓</span></a></div></div></section>
+      <section class="proposal-page partnership" id="proposal" aria-labelledby="proposal-title" tabindex="-1"><div class="shell partnership-heading"><p class="eyebrow">PARTNERSHIP PROPOSAL</p><h2 id="proposal-title">讓靠得住的日常照護陪新生安心出發</h2></div><div class="shell decision-layout"><article class="primary-request"><p>優先合作方案</p><div class="request-number"><strong>草本抑菌衛生棉<br /><span>26cm 40 包</span></strong></div><ul><li>直接發放給女同學</li><li>不以競賽或抽獎方式安排</li><li>實際提供方式與商品規格依品牌確認</li><li>活動網站與 Instagram 內容皆於上線前送交核可</li></ul></article></div><div class="shell deliverable-table-wrap"><table class="deliverable-table"><caption>合作內容</caption><thead><tr><th scope="col">合作項目</th><th scope="col">主辦方交付</th><th scope="col">可共同討論</th><th scope="col">回報憑據</th></tr></thead><tbody><tr><th scope="row">直接發放</th><td>以草本抑菌衛生棉 26cm 40 包作為女同學直接發放物資的提案基礎；實際包裝與發放方式於執行前確認。</td><td>產品提供方式、適用性與場地規範。</td><td>執行紀錄與現場照片。</td></tr><tr><th scope="row">品牌識別素材</th><td>若品牌提供貼紙、鑰匙圈或其他宣傳素材，可規劃為互動贈品或核可後的宣傳內容。</td><td>是否提供、素材種類、數量與使用規範。</td><td>現場與素材使用紀錄。</td></tr><tr><th scope="row"><a href="activity-mockup.html" target="_blank" rel="noopener noreferrer">活動官網 ↗</a></th><td>合作頁放置 靠得住 Kotex Logo、官方連結與核可後的簡短介紹。</td><td>Logo 檔、連結與上線前審核。</td><td>線上截圖。</td></tr><tr><th scope="row">Instagram 合作內容</th><td>活動前、現場、活動後各 1 則內容；文案與視覺均先送 靠得住 Kotex 確認。</td><td>素材、標記帳號與文案規範。</td><td>貼文連結與限時動態截圖。</td></tr><tr><th scope="row">成果結案</th><td>活動後 14 日內整理合作執行摘要與公開紀錄。</td><td>指定收件窗口與成果欄位。</td><td>結案 PDF、照片與公開連結。</td></tr></tbody></table></div><div class="shell content-preview" aria-labelledby="content-preview-title"><div class="content-preview-copy"><p class="eyebrow">CONTENT EXAMPLE</p><h3 id="content-preview-title"><span>Instagram</span><span>貼文模擬</span></h3><p>以下以三則貼文呈現直接發放準備、活動中照護提醒與活動後回顧。視覺、文案與發布時程皆會於上線前送交 靠得住 Kotex 確認。</p><div class="resource-links"><a class="resource-link" href="activity-mockup.html" target="_blank" rel="noopener noreferrer">前往活動官網 ↗</a><a class="resource-link" href="https://www.instagram.com/2026_nsysu_camp/" target="_blank" rel="noopener noreferrer">前往 Instagram ↗</a></div></div><article class="instagram-mockup" aria-label="靠得住 Kotex Instagram 貼文模擬器"><header><img src="../assets/images/logo-avatar.jpg" alt="" /><div><b>2026_nsysu_camp</b><small>中山五系聯合迎新宿營</small></div><button type="button" aria-label="更多選項">•••</button></header><div class="instagram-media"><img id="instagram-image" src="assets/instagram/01-before-kotex.png" alt="靠得住 Kotex 合作貼文範例一" /><button class="ig-arrow previous" type="button" aria-label="上一張貼文" onclick="window.kotexShowPost?.(-1); return false;">‹</button><button class="ig-arrow next" type="button" aria-label="下一張貼文" onclick="window.kotexShowPost?.(1); return false;">›</button></div><div class="instagram-actions"><span aria-hidden="true">♡　◯　➤</span><div class="ig-dots" aria-label="貼文頁數"><button class="is-current" type="button" aria-label="顯示第 1 張範例" onclick="window.kotexShowPost?.(0, true); return false;"></button><button type="button" aria-label="顯示第 2 張範例" onclick="window.kotexShowPost?.(1, true); return false;"></button><button type="button" aria-label="顯示第 3 張範例" onclick="window.kotexShowPost?.(2, true); return false;"></button></div><span aria-hidden="true">⌑</span></div><div class="instagram-caption"><b>2026_nsysu_camp</b><p id="instagram-caption">出發前，我們先把日常照護用品準備好。所有合作素材均於上線前送靠得住確認。</p><small id="instagram-date">貼文方向一｜活動前</small></div></article></div><div class="shell page-next"><a class="next-link" href="#execution">看活動執行與安全規劃 <span aria-hidden="true">↓</span></a></div></section>
+      <section class="proposal-page execution" id="execution" aria-labelledby="execution-title" tabindex="-1"><div class="shell execution-heading"><p class="eyebrow">EXECUTION &amp; SAFETY</p><h2 id="execution-title">把合作融入活動也守住安全</h2></div><div class="shell schedule-grid"><article><span>DAY 1 / 10.09</span><h3>先認識彼此</h3><p>破冰、夜教、宵夜</p><small>校園內集合與活動，隊輔帶領、點名與安全說明。</small></article><article><span>DAY 2 / 10.10</span><h3>高活動量的一天</h3><p>走馬瀨大地遊戲、水大地、晚會</p><small>抽獎與合作夥伴致謝可安排於晚會等合適環節。</small></article><article><span>DAY 3 / 10.11</span><h3>完成共同旅程</h3><p>結業、團隊活動、安平探索</p><small>戶外活動與移動前皆完成安全說明，結束後返抵中山大學。</small></article></div><div class="shell safety-grid"><article><h3>現場安全</h3><p>飲用水、急救箱、點名與醫療聯絡表全程配置。各活動前完成安全說明與器材檢查。</p></article><article><h3>天候與應變</h3><p>雨勢、高溫或重大事件依校方、場地方與政府指示調整。</p></article><article><h3>合作執行原則</h3><p>抽獎與宣傳不影響活動安全與參與者隱私。所有對外品牌文字皆經確認後發布。</p></article></div><div class="shell closing-card"><div><p class="eyebrow">NEXT STEP</p><h2><span>期待與靠得住</span><span>一起讓相遇留下好記憶</span></h2></div><p>若 靠得住 Kotex 願意評估本案，我們將依品牌回覆確認贊助商品、素材與交付項目，並提供最終執行版本。</p></div></section>
     </main><footer class="proposal-footer"><div class="shell"><span>2026 中山五系聯合迎新宿營</span><span>靠得住 合作提案｜合作內容依雙方最終確認為準</span></div></footer><script src="script.js?v=20260909-1"></script>
   </body>
 </html>

diff --git a/kotex/script.js b/kotex/script.js
@@ -8,9 +8,9 @@ const observer = new IntersectionObserver((entries) => { const current = entries
 pages.forEach((page) => observer.observe(page));
 
 const posts = [
-  { image: 'assets/instagram/01-before-kotex.png', alt: '靠得住草本抑菌衛生棉合作貼文範例一', caption: '出發前的迎新福袋，我們想把日常照顧一起準備好。若合作成案，靠得住草本抑菌衛生棉將依品牌確認方式放入女同學的福袋。', label: '貼文方向一｜活動前' },
+  { image: 'assets/instagram/01-before-kotex.png', alt: '靠得住草本抑菌衛生棉合作貼文範例一', caption: '出發前的直接發放，我們想把日常照顧一起準備好。若合作成案，靠得住草本抑菌衛生棉將依品牌確認方式放入女同學。', label: '貼文方向一｜活動前' },
   { image: 'assets/instagram/02-during-kotex.png', alt: '靠得住草本抑菌衛生棉合作貼文範例二', caption: '闖關和水大地進行中，隊輔也會把個人需求與休息時間留在行程裡。謝謝靠得住支持新生以舒服的節奏參與每一段活動。', label: '貼文方向二｜活動中' },
-  { image: 'assets/instagram/03-after-kotex.png', alt: '靠得住草本抑菌衛生棉合作貼文範例三', caption: '三天兩夜結束後，福袋裡留下的是實用的日常用品和認識新朋友的回憶。實際合作露出與商品資訊均以靠得住最終確認為準。', label: '貼文方向三｜活動後' },
+  { image: 'assets/instagram/03-after-kotex.png', alt: '靠得住草本抑菌衛生棉合作貼文範例三', caption: '三天兩夜結束後，發放後留下的是實用的日常用品和認識新朋友的回憶。實際合作露出與商品資訊均以靠得住最終確認為準。', label: '貼文方向三｜活動後' },
 ];
 let currentPost = 0;
 const postImage = document.querySelector('#instagram-image');

diff --git a/whisper/styles.css b/whisper/styles.css
@@ -5,7 +5,7 @@
 .alcohol-warning{position:sticky;bottom:0;z-index:20;padding:16px 24px;background:#171717;color:#fff;text-align:center;font-weight:900;letter-spacing:.08em;font-size:clamp(.78rem,1.5vw,1rem)}
 .alcohol-warning{position:sticky;bottom:0;z-index:20;padding:16px 24px;background:#171717;color:#fff;text-align:center;font-weight:900;letter-spacing:.08em;font-size:clamp(.78rem,1.5vw,1rem)}
 
-/* Keep the Whisper request concise and inside its card. */
+/* Keep the Kotex request concise and inside its card. */
 .whisper-proposal .ask-card { max-width: 43rem; }
 .whisper-proposal .ask-card-title { gap: .55rem; }
 .whisper-proposal .ask-card-title strong { font-size: clamp(2rem, 3.6vw, 3rem); line-height: 1.2; letter-spacing: .025em; overflow-wrap: normal; word-break: keep-all; }
@@ -13,3 +13,5 @@
 .whisper-proposal .blank-product b { line-height: 1.75; word-break: keep-all; }
 .whisper-proposal .request-number strong { display: block; line-height: 1.42; letter-spacing: .04em; word-break: keep-all; }
 .whisper-proposal .request-number strong span { display: inline-block; margin-top: .18em; font-size: clamp(3rem, 6vw, 5.2rem); line-height: 1; }
+
+.whisper-proposal .hydration-copy h2, .whisper-proposal .hydration-copy h2, .whisper-proposal .closing-card h2, .whisper-proposal .closing-card h2 { font-size:clamp(2.35rem,5vw,4.9rem); line-height:1.08; text-wrap:balance; }\n.whisper-proposal .hydration-copy h2 span, .whisper-proposal .hydration-copy h2 span, .whisper-proposal .closing-card h2 span, .whisper-proposal .closing-card h2 span { display:block; }\n

diff --git a/whisper/script.js b/whisper/script.js
@@ -8,7 +8,7 @@ const observer = new IntersectionObserver((entries) => { const current = entries
 pages.forEach((page) => observer.observe(page));
 
 const posts = [
-  { image: 'assets/instagram/01-before-whisper.png', alt: '好自在液體衛生棉合作貼文範例一', caption: '集合前，我們先把迎新福袋和個人用品整理好。若合作成案，好自在經典款液體衛生棉將依品牌確認方式提供給女同學。', label: '貼文方向一｜活動前' },
+  { image: 'assets/instagram/01-before-whisper.png', alt: '好自在液體衛生棉合作貼文範例一', caption: '集合前，我們先把直接發放和個人用品整理好。若合作成案，好自在經典款液體衛生棉將依品牌確認方式提供給女同學。', label: '貼文方向一｜活動前' },
   { image: 'assets/instagram/02-during-whisper.png', alt: '好自在液體衛生棉合作貼文範例二', caption: '跑跳闖關的下午，大家一起補水、休息，再回到小隊任務。謝謝好自在支持讓新生能更自在投入活動的合作方向。', label: '貼文方向二｜活動中' },
   { image: 'assets/instagram/03-after-whisper.png', alt: '好自在液體衛生棉合作貼文範例三', caption: '活動告一段落，把實用的日用品一起帶回日常。實際合作露出、商品規格與發放方式均以好自在最終確認為準。', label: '貼文方向三｜活動後' },
 ];

diff --git a/kotex/styles.css b/kotex/styles.css
@@ -13,3 +13,5 @@
 .kotex-proposal .blank-product b { line-height: 1.75; word-break: keep-all; }
 .kotex-proposal .request-number strong { display: block; line-height: 1.42; letter-spacing: .04em; word-break: keep-all; }
 .kotex-proposal .request-number strong span { display: inline-block; margin-top: .18em; font-size: clamp(3rem, 6vw, 5.2rem); line-height: 1; }
+
+.kotex-proposal .hydration-copy h2, .whisper-proposal .hydration-copy h2, .kotex-proposal .closing-card h2, .whisper-proposal .closing-card h2 { font-size:clamp(2.35rem,5vw,4.9rem); line-height:1.08; text-wrap:balance; }\n.kotex-proposal .hydration-copy h2 span, .whisper-proposal .hydration-copy h2 span, .kotex-proposal .closing-card h2 span, .whisper-proposal .closing-card h2 span { display:block; }\n

diff --git a/kotex/instagram-captions.md b/kotex/instagram-captions.md
@@ -4,7 +4,7 @@
 
 ## 活動前
 
-出發前的迎新福袋，我們想把日常照顧一起準備好。若合作成案，靠得住草本抑菌衛生棉 26cm 將依品牌確認方式放入女同學的福袋。
+出發前的直接發放，我們想把日常照顧一起準備好。若合作成案，靠得住草本抑菌衛生棉 26cm 將依品牌確認方式放入女同學。
 
 ## 活動中
 
@@ -12,4 +12,4 @@
 
 ## 活動後
 
-三天兩夜結束後，福袋裡留下的是實用的日常用品和認識新朋友的回憶。實際合作露出與商品資訊均以靠得住最終確認為準。
+三天兩夜結束後，發放後留下的是實用的日常用品和認識新朋友的回憶。實際合作露出與商品資訊均以靠得住最終確認為準。

diff --git a/whisper/instagram-captions.md b/whisper/instagram-captions.md
@@ -4,7 +4,7 @@
 
 ## 活動前
 
-集合前，我們先把迎新福袋和個人用品整理好。若合作成案，好自在經典款液體衛生棉 24cm 或 27cm 將依品牌確認方式提供給女同學。
+集合前，我們先把直接發放和個人用品整理好。若合作成案，好自在經典款液體衛生棉 24cm 或 27cm 將依品牌確認方式提供給女同學。
 
 ## 活動中
 
